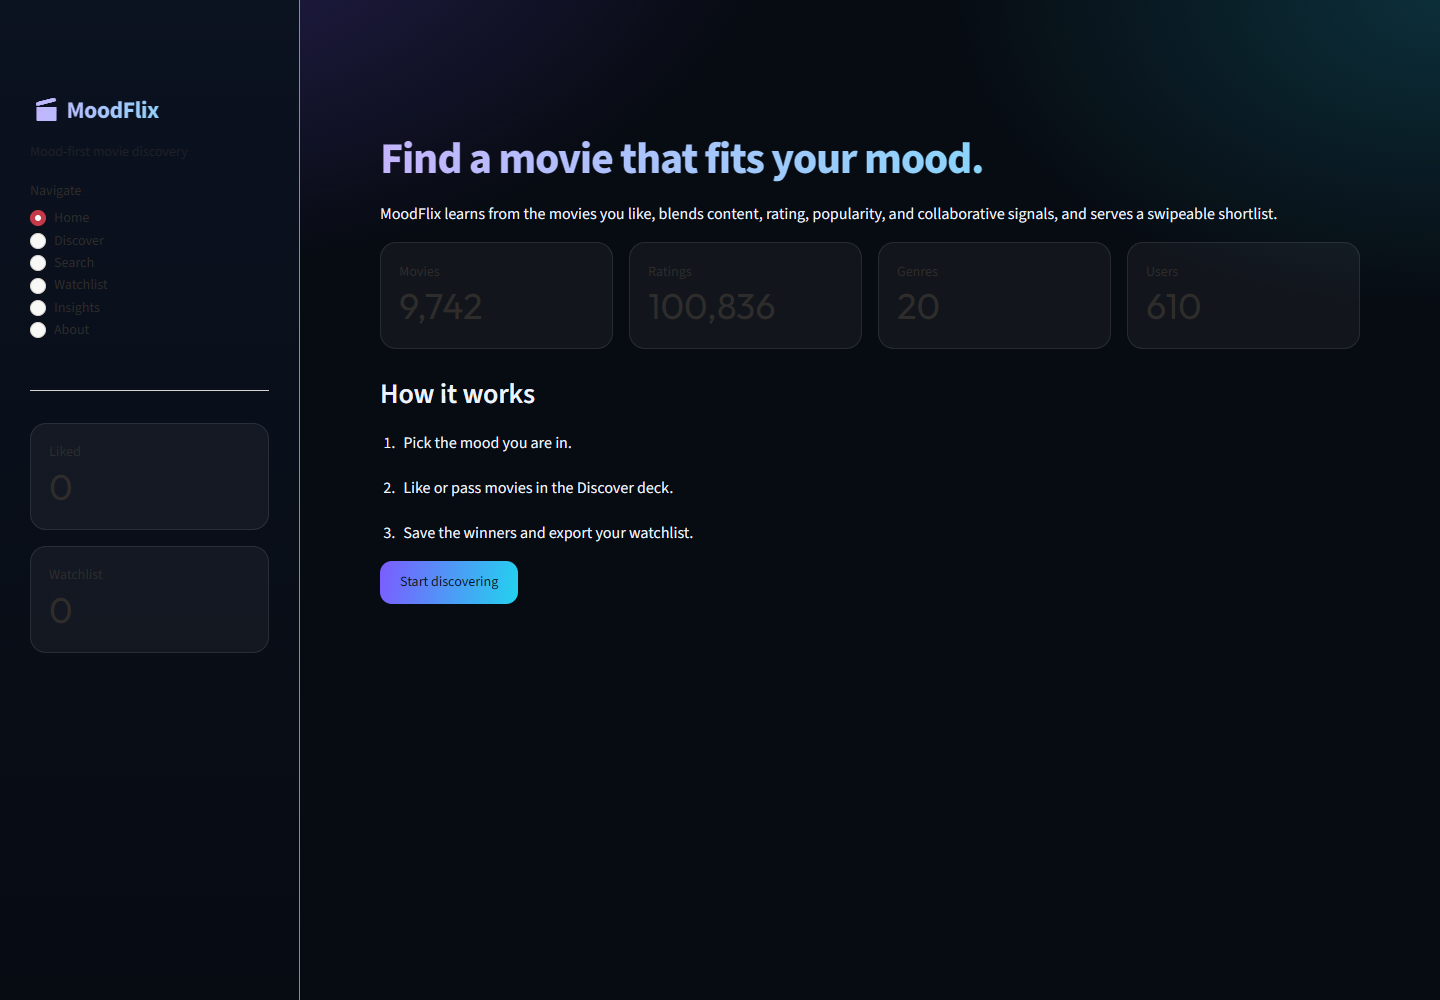
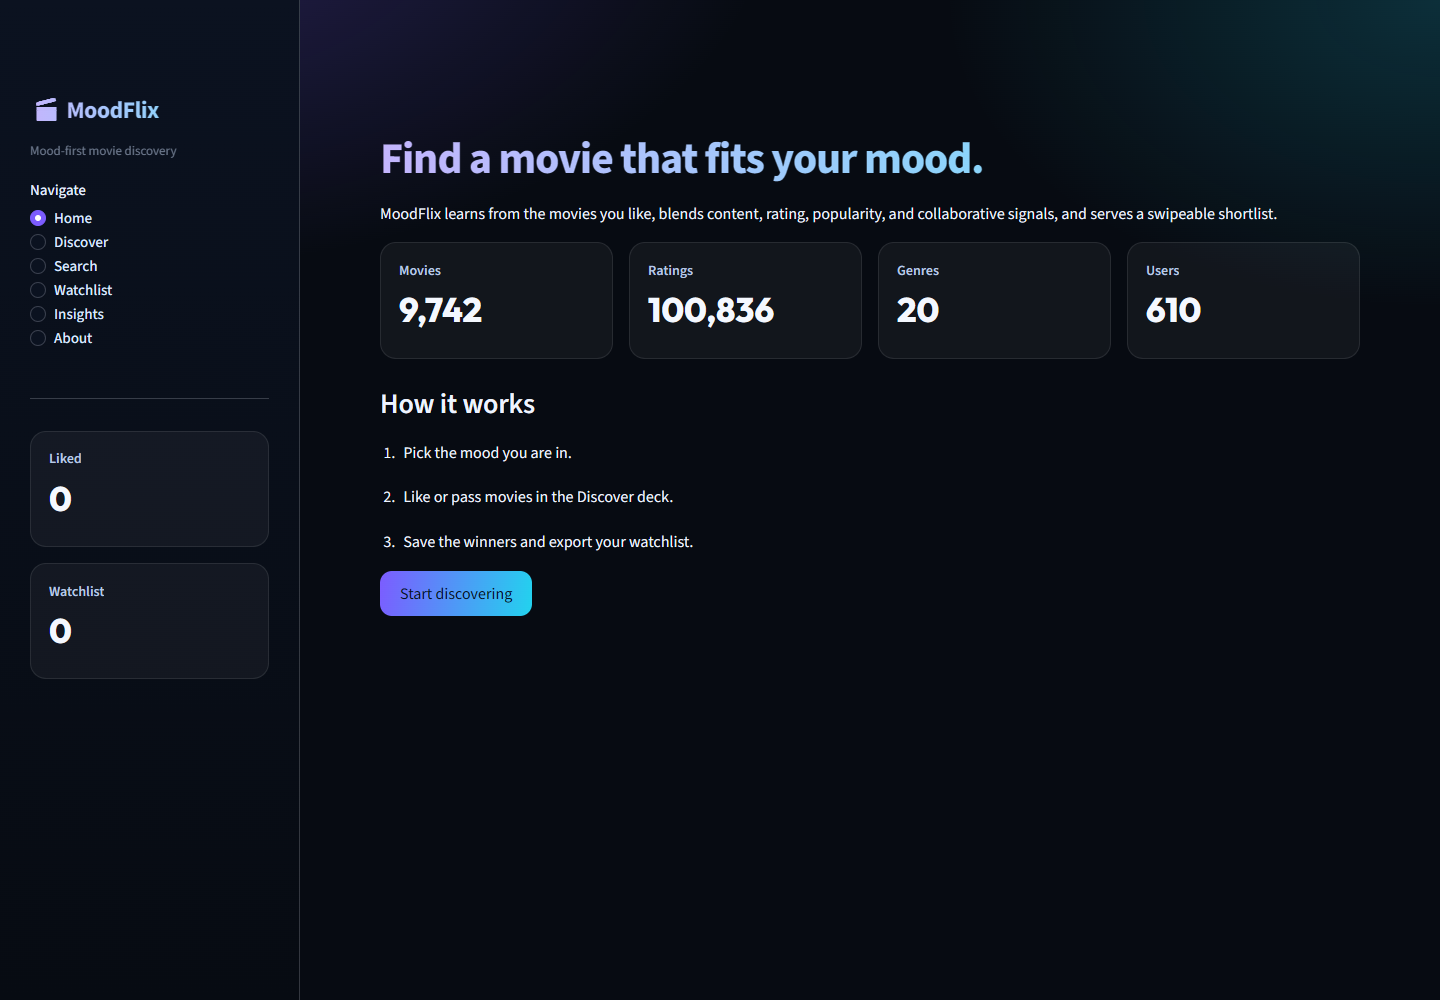
Improve dark theme and font readability

diff --git a/src/ui.py b/src/ui.py
@@ -10,6 +10,10 @@ def inject_css():
         <style>
         @import url('https://fonts.googleapis.com/css2?family=Outfit:wght@300;400;600;800&display=swap');
 
+        html, body, .stApp, [data-testid="stSidebar"], button, input, textarea, select {
+            font-family: "Outfit", "Segoe UI", system-ui, sans-serif;
+        }
+
         .stApp {
             background:
                 radial-gradient(1100px 620px at 8% -10%, rgba(124,92,255,.28), transparent 60%),
@@ -22,6 +26,27 @@ def inject_css():
         [data-testid="stSidebar"] {
             background: linear-gradient(180deg, #0b1220, #070b12);
             border-right: 1px solid rgba(255,255,255,.08);
+        }
+
+        [data-testid="stSidebar"] p,
+        [data-testid="stSidebar"] label {
+            color: #dbe7ff;
+        }
+
+        [data-testid="stMarkdownContainer"] p,
+        [data-testid="stMarkdownContainer"] li {
+            font-size: 16px;
+            line-height: 1.6;
+        }
+
+        [data-testid="stSidebar"] [data-testid="stRadio"] p {
+            font-size: 15px;
+            font-weight: 500;
+        }
+
+        [data-testid="stSidebar"] [data-testid="stCaptionContainer"] p {
+            color: #9fb2cf;
+            font-size: 13px;
         }
 
         h1 {
@@ -44,7 +69,7 @@ def inject_css():
 
         .mf-kicker {
             color: #67e8f9;
-            font-size: .72rem;
+            font-size: .78rem;
             font-weight: 700;
             letter-spacing: .2em;
             text-transform: uppercase;
@@ -59,7 +84,8 @@ def inject_css():
         }
 
         .mf-meta {
-            color: #a9b8d0;
+            color: #c3d2ea;
+            font-size: 1rem;
             font-weight: 500;
             margin-bottom: 14px;
         }
@@ -71,21 +97,23 @@ def inject_css():
         }
 
         .mf-rating span {
-            color: #7f93b3;
-            font-size: .9rem;
+            color: #a9b8d0;
+            font-size: .95rem;
             font-weight: 400;
         }
 
         .mf-tags {
             margin-top: 14px;
-            color: #8ea3c0;
-            font-size: .9rem;
+            color: #b9c9e5;
+            font-size: .95rem;
             font-style: italic;
+            line-height: 1.5;
         }
 
         div.stButton > button {
             background-image: linear-gradient(100deg, #7c5cff, #22d3ee);
             color: #04121f;
+            font-size: 1rem;
             font-weight: 700;
             border: none;
             border-radius: 12px;
@@ -102,6 +130,27 @@ def inject_css():
             border: 1px solid rgba(255,255,255,.09);
             border-radius: 16px;
             padding: 16px 18px;
+        }
+
+        [data-testid="stMetricLabel"] p {
+            color: #b9c9e5 !important;
+            font-size: 14px;
+            font-weight: 600;
+        }
+
+        [data-testid="stMetricValue"] p {
+            color: #f4f8ff !important;
+            font-size: 34px;
+            font-weight: 700;
+        }
+
+        [data-testid="stWidgetLabel"] p {
+            color: #e6efff !important;
+            font-weight: 600;
+        }
+
+        [data-testid="stCaptionContainer"] p {
+            color: #aebdd6 !important;
         }
         </style>
         """,

diff --git a/README.md b/README.md
@@ -34,6 +34,8 @@ MoodFlix/
 ├── app.py
 ├── requirements.txt
 ├── README.md
+├── .streamlit/
+│   └── config.toml
 ├── assets/
 │   ├── preview.gif
 │   ├── home.png
